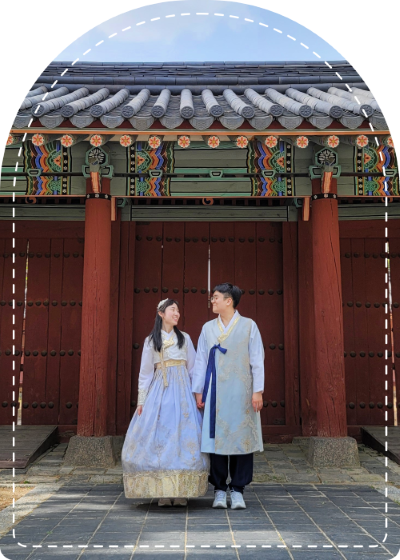
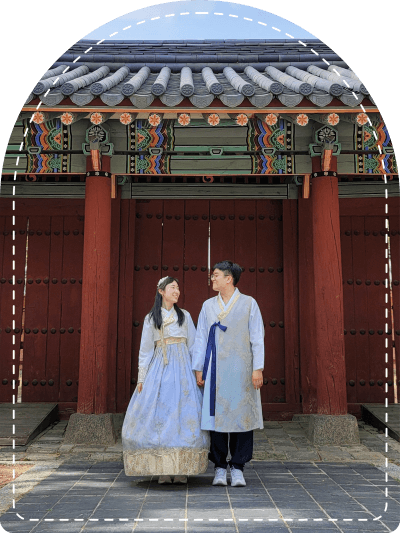
edit title leaves

diff --git a/src/components/TitleComp.vue b/src/components/TitleComp.vue
@@ -1,21 +1,21 @@
 <template>
     <div class="contents">
-        <!-- 상단 제목 -->
-        <div class="title">우리 결혼합니다</div>
+      <!-- 상단 제목 -->
+      <div class="title">우리 결혼합니다</div>
 
-        <!-- 사진 영역 -->
-        <div class="photo-frame">
-          <canvas id="flowerCanvas" class="flower-canvas"></canvas>
-          <img src="@/assets/images/title.png" alt="Wedding Main Photo" class="photo" />
-        </div>
+      <!-- 사진 영역 -->
+      <div class="photo-frame">
+        <canvas id="flowerCanvas" class="flower-canvas"></canvas>
+        <img src="@/assets/images/title.png" alt="Wedding Main Photo" class="photo" />
+      </div>
 
-        <!-- 하단 텍스트 -->
-        <div class="details">
-            <div class="couple-name">신랑 김영진 ♥ 신부 원정연</div>
-            <div class="date-time">
-                {{ formattedWeddingDate }}
-            </div>
-        </div>
+      <!-- 하단 텍스트 -->
+      <div class="details">
+          <div class="couple-name">신랑 김영진 ♥ 신부 원정연</div>
+          <div class="date-time">
+              {{ formattedWeddingDate }}
+          </div>
+      </div>
     </div>
 </template>
 
@@ -69,9 +69,22 @@ export default {
     const canvas = document.getElementById("flowerCanvas");
     const ctx = canvas.getContext("2d");
 
+    function resizeCanvas() {
+      const parent = canvas.parentElement; // 부모 컨테이너 가져오기
+      if (!parent) {
+        console.error("Canvas의 부모 요소를 찾을 수 없습니다.");
+        return;
+      }
+
+      const dpr = window.devicePixelRatio || 1;
+      canvas.width = parent.offsetWidth * dpr;
+      canvas.height = parent.offsetHeight * dpr;
+      ctx.scale(dpr, dpr);
+    }
+
     // 캔버스 크기 설정
-    canvas.width = canvas.offsetWidth;
-    canvas.height = canvas.offsetHeight;
+    resizeCanvas();
+    window.addEventListener("resize", resizeCanvas);
 
     const particles = [];
     const particleCount = 20;
@@ -83,7 +96,7 @@ export default {
 
     // 파티클 클래스
     class Particle {
-      constructor() {
+      constructor(images) {
         this.x = Math.random() * canvas.width;
         this.y = Math.random() * canvas.height;
         this.size = Math.random() * 3 + 7;
@@ -124,14 +137,28 @@ export default {
     }
 
     // 모든 이미지가 로드된 후 파티클 초기화
-    Promise.all(images.map((img) => new Promise((resolve) => (img.onload = resolve)))).then(() => {
-      initParticles(images); // 이미지 배열 전달
+    Promise.all(
+      images.map(
+        (img) =>
+          new Promise((resolve, reject) => {
+            img.onload = resolve;
+            img.onerror = () => {
+              console.error("이미지 로드 실패:", img.src);
+              reject(new Error(`이미지 로드 실패: ${img.src}`));
+            };
+          })
+      )
+    ).then(() => {
+      initParticles();
       animate();
+    })
+    .catch((error) => {
+      console.error("꽃잎 초기화 실패:", error);
     });
 
     function initParticles() {
       for (let i = 0; i < particleCount; i++) {
-        particles.push(new Particle());
+        particles.push(new Particle(images));
       }
     }
 
@@ -143,19 +170,13 @@ export default {
       });
       requestAnimationFrame(animate);
     }
-
-    // 반응형 처리
-    window.addEventListener("resize", () => {
-      canvas.width = canvas.offsetWidth;
-      canvas.height = canvas.offsetHeight;
-    });
   },
 };
 </script>
 
 <style scoped>
 .contents {
-  margin-top: 100px;
+  padding-top: 100px;
 }
 
 /* 제목 스타일 */ 
@@ -175,6 +196,7 @@ export default {
     justify-content: center; /* 가로 중앙 */
     width: 80%; /* 사진 프레임 너비 */
     max-width: 350px; /* 최대 너비 제한 */
+    aspect-ratio: 3 / 4;
     overflow: hidden;
     margin-top: 50px;
 }
